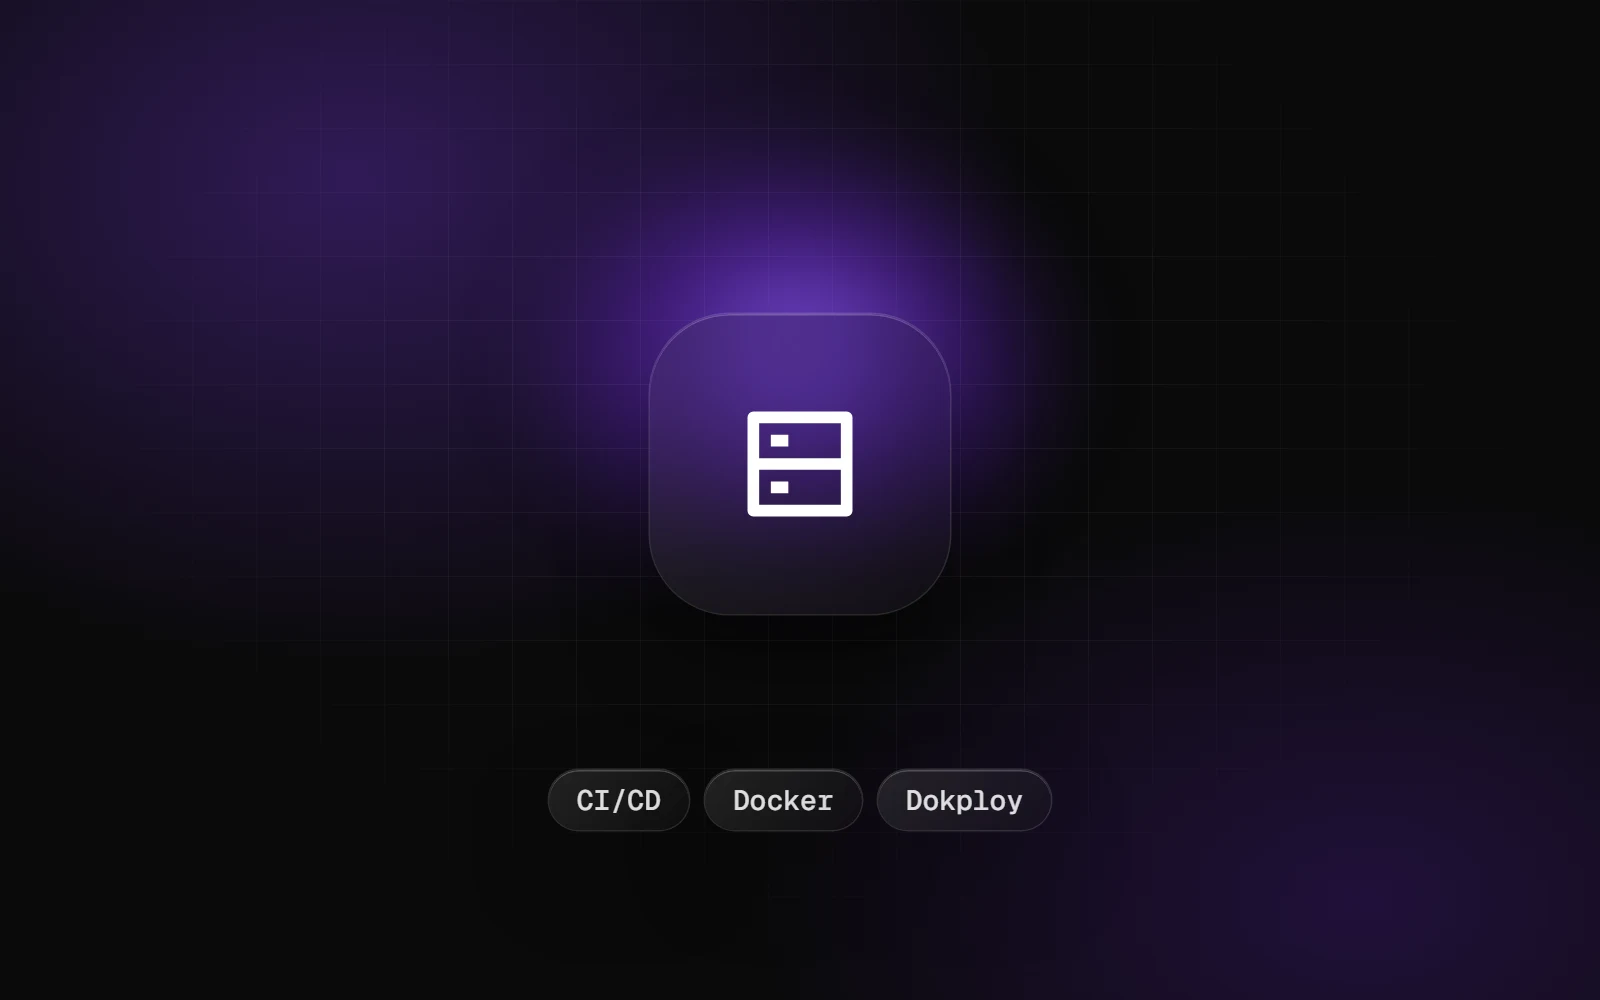
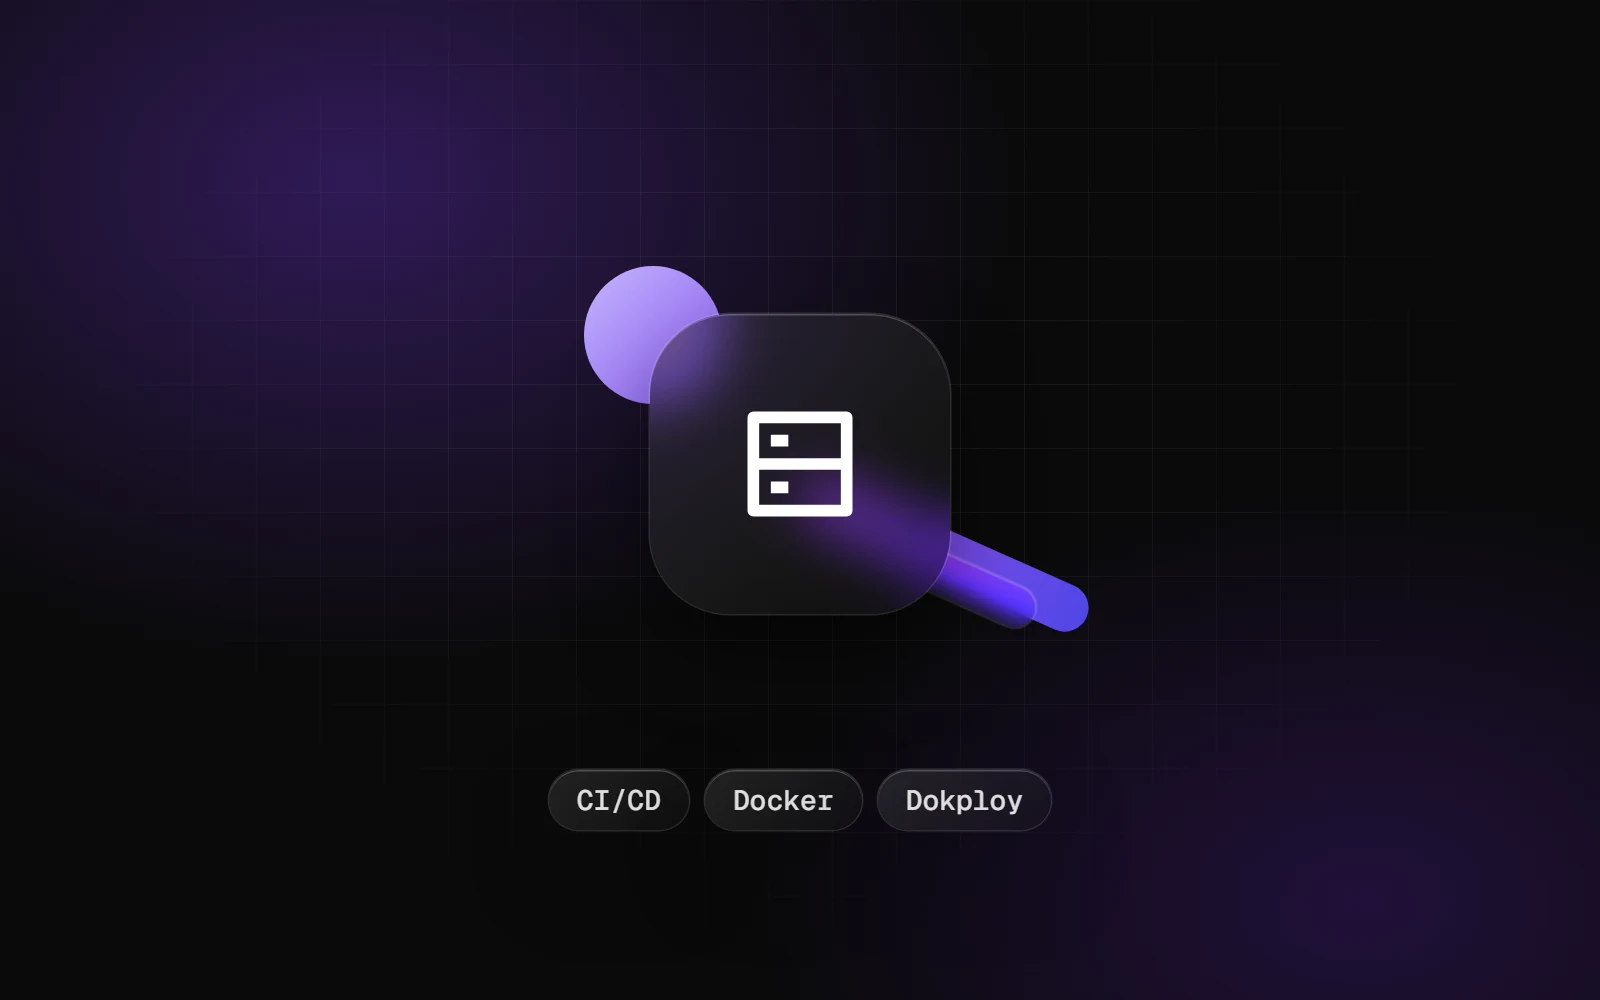
feat: cover shapes anchored to the glass element, one composition per neighbour

Changed region(s): [[0.3438, 0.155, 0.6875, 0.651]]

diff --git a/scripts/cover-template.ts b/scripts/cover-template.ts
@@ -1,8 +1,8 @@
 /**
- * Shared template of the project covers: the site's dark violet light and one
- * glass element over a soft violet glow, the same on every cover. The element
- * is a window around a desktop capture, a phone around a mobile capture, or an
- * icon tile with keywords for the projects without an interface.
+ * Shared template of the project covers, built like the site's hero: one glass
+ * element (a window around a desktop capture, a phone around a mobile capture,
+ * or an icon tile for the projects without an interface), two violet shapes
+ * tucked behind its corners and a small glass lens over one of them.
  */
 import { createRequire } from 'node:module'
 import { pathToFileURL } from 'node:url'
@@ -20,6 +20,25 @@ export type CoverFrame =
   | { kind: 'window'; capture: URL; pixelated?: boolean }
   | { kind: 'phone'; capture: URL }
 
+/**
+ * Four compositions, mirrored two by two. Offsets are relative to the glass
+ * element and scaled by its size (`--k`), so every shape stays anchored to it.
+ */
+const COMPOSITIONS = [
+  `<i class="shape disc" style="top: calc(-90px * var(--k)); right: calc(-150px * var(--k)); width: calc(380px * var(--k)); height: calc(380px * var(--k));"></i>
+   <i class="shape bar" style="bottom: calc(-36px * var(--k)); left: calc(-190px * var(--k)); width: calc(430px * var(--k)); height: calc(72px * var(--k)); rotate: -18deg;"></i>
+   <i class="lens glass" style="top: calc(105px * var(--k)); right: calc(-160px * var(--k)); width: calc(130px * var(--k)); height: calc(130px * var(--k));"></i>`,
+  `<i class="shape disc" style="bottom: calc(-90px * var(--k)); left: calc(-150px * var(--k)); width: calc(380px * var(--k)); height: calc(380px * var(--k));"></i>
+   <i class="shape bar" style="top: calc(-36px * var(--k)); right: calc(-190px * var(--k)); width: calc(430px * var(--k)); height: calc(72px * var(--k)); rotate: -18deg;"></i>
+   <i class="lens glass" style="bottom: calc(105px * var(--k)); left: calc(-160px * var(--k)); width: calc(130px * var(--k)); height: calc(130px * var(--k));"></i>`,
+  `<i class="shape dot" style="top: calc(-80px * var(--k)); left: calc(-110px * var(--k)); width: calc(230px * var(--k)); height: calc(230px * var(--k));"></i>
+   <i class="shape bar" style="bottom: calc(60px * var(--k)); right: calc(-250px * var(--k)); width: calc(520px * var(--k)); height: calc(80px * var(--k)); rotate: 24deg;"></i>
+   <i class="lens glass" style="bottom: calc(10px * var(--k)); right: calc(-150px * var(--k)); width: calc(230px * var(--k)); height: calc(70px * var(--k)); rotate: 24deg;"></i>`,
+  `<i class="shape dot" style="bottom: calc(-80px * var(--k)); right: calc(-110px * var(--k)); width: calc(230px * var(--k)); height: calc(230px * var(--k));"></i>
+   <i class="shape bar" style="top: calc(60px * var(--k)); left: calc(-250px * var(--k)); width: calc(520px * var(--k)); height: calc(80px * var(--k)); rotate: 24deg;"></i>
+   <i class="lens glass" style="top: calc(10px * var(--k)); left: calc(-150px * var(--k)); width: calc(230px * var(--k)); height: calc(70px * var(--k)); rotate: 24deg;"></i>`,
+]
+
 function fontUrl(path: string) {
   return pathToFileURL(require.resolve(path)).href
 }
@@ -30,16 +49,23 @@ function iconSvg(name: string) {
   return `<svg xmlns="http://www.w3.org/2000/svg" viewBox="0 0 24 24" fill="currentColor">${icon.body}</svg>`
 }
 
-function frameHtml(frame: CoverFrame) {
-  if (frame.kind === 'icon') {
-    return `<div class="tile glass">${iconSvg(frame.icon)}</div>
+function frameHtml(frame: CoverFrame, composition: string) {
+  const content =
+    frame.kind === 'icon'
+      ? iconSvg(frame.icon)
+      : `<img src="${frame.capture.href}" alt=""${frame.kind === 'window' && frame.pixelated ? ' class="pixelated"' : ''}>`
+  const stage = `<div class="stage stage--${frame.kind}">
+    ${composition}
+    <div class="frame frame--${frame.kind} glass">${content}</div>
+  </div>`
+  if (frame.kind !== 'icon') return stage
+  return `${stage}
   <div class="keywords">${frame.keywords.map((word) => `<span class="glass">${word}</span>`).join('')}</div>`
-  }
-  const image = `<img src="${frame.capture.href}" alt=""${frame.kind === 'window' && frame.pixelated ? ' class="pixelated"' : ''}>`
-  return `<div class="${frame.kind} glass">${image}</div>`
 }
 
-export function coverHtml(frame: CoverFrame) {
+/** `variant` picks the composition; neighbouring projects get different ones. */
+export function coverHtml(frame: CoverFrame, variant: number) {
+  const composition = COMPOSITIONS[variant % COMPOSITIONS.length] ?? ''
   const sans = fontUrl('@fontsource-variable/geist/files/geist-latin-wght-normal.woff2')
   const mono = fontUrl('@fontsource-variable/geist-mono/files/geist-mono-latin-wght-normal.woff2')
   return `<!doctype html>
@@ -73,21 +99,7 @@ export function coverHtml(frame: CoverFrame) {
     background-size: 64px 64px;
     mask-image: radial-gradient(ellipse at 50% 40%, black 15%, transparent 72%);
   }
-  .glow {
-    position: absolute;
-    top: 130px;
-    left: 50%;
-    width: 560px;
-    height: 460px;
-    border-radius: 50%;
-    background: radial-gradient(closest-side, #8b5cf6, rgb(109 40 217 / 0.5), transparent);
-    filter: blur(40px);
-    translate: -50% 0;
-  }
-  .glow--window,
-  .glow--phone { top: 170px; width: 1100px; height: 640px; opacity: 0.8; }
   .glass {
-    position: absolute;
     background:
       linear-gradient(135deg, rgb(255 255 255 / 0.1), rgb(255 255 255 / 0.02)),
       rgb(10 10 10 / 0.5);
@@ -97,18 +109,31 @@ export function coverHtml(frame: CoverFrame) {
       inset 0 1.5px 0 rgb(255 255 255 / 0.22),
       0 40px 100px -20px rgb(0 0 0 / 0.7);
   }
-  .tile {
-    top: 50%;
-    left: 50%;
+  .stage { position: absolute; left: 50%; }
+  .stage--window { --k: 1; top: 50%; width: 1120px; transform: translate(-50%, -50%); }
+  .stage--phone { --k: 0.8; top: 90px; width: 430px; transform: translateX(-50%); }
+  .stage--icon { --k: 0.6; top: 50%; width: 300px; height: 300px; transform: translate(-50%, -62%); }
+  .shape, .lens { position: absolute; border-radius: 9999px; }
+  .disc { background: linear-gradient(135deg, #a78bfa, #6d28d9); }
+  .dot { background: linear-gradient(135deg, #c4b5fd, #8b5cf6); }
+  .bar { background: linear-gradient(90deg, #a855f7, #4f46e5); }
+  .lens { background: rgb(255 255 255 / 0.04); backdrop-filter: blur(14px) saturate(200%); }
+  .frame { position: relative; padding: 14px; }
+  .frame img { display: block; width: 100%; }
+  .frame--window { border-radius: 34px; }
+  .frame--window img { border-radius: 22px; }
+  .frame--phone { border-radius: 64px; }
+  .frame--phone img { border-radius: 50px; }
+  .frame--icon {
     display: grid;
-    width: 300px;
-    height: 300px;
+    width: 100%;
+    height: 100%;
     place-items: center;
+    padding: 0;
     border-radius: 80px;
     color: #fff;
-    transform: translate(-50%, -62%);
   }
-  .tile svg { width: 140px; height: 140px; }
+  .frame--icon svg { width: 140px; height: 140px; }
   .keywords {
     position: absolute;
     right: 0;
@@ -119,37 +144,17 @@ export function coverHtml(frame: CoverFrame) {
     gap: 16px;
   }
   .keywords span {
-    position: relative;
     padding: 12px 28px;
     border-radius: 999px;
     color: rgb(255 255 255 / 0.86);
     font: 500 28px "Geist Mono", monospace;
   }
-  .window {
-    top: 50%;
-    left: 50%;
-    width: 1120px;
-    padding: 14px;
-    border-radius: 34px;
-    transform: translate(-50%, -50%);
-  }
-  .window img { display: block; width: 100%; border-radius: 22px; }
-  .phone {
-    top: 90px;
-    left: 50%;
-    width: 430px;
-    padding: 14px;
-    border-radius: 64px;
-    transform: translateX(-50%);
-  }
-  .phone img { display: block; width: 100%; border-radius: 50px; }
   .pixelated { image-rendering: pixelated; }
 </style>
 <body>
   <div class="light"></div>
   <div class="grid"></div>
-  <div class="glow glow--${frame.kind}"></div>
-  ${frameHtml(frame)}
+  ${frameHtml(frame, composition)}
 </body>
 </html>`
 }

diff --git a/scripts/covers.ts b/scripts/covers.ts
@@ -16,21 +16,22 @@ import { type CoverFrame, coverHtml, HEIGHT, WIDTH } from './cover-template'
 const OUTPUT_DIR = new URL('../public/images/projects/', import.meta.url)
 const CAPTURES = new URL('./captures/', import.meta.url)
 
+// In the order of the projects page, so that neighbours never share a composition.
 const covers: Array<{ id: string; frame: CoverFrame }> = [
+  {
+    id: 'dgfip-audit-tool',
+    frame: { kind: 'icon', icon: 'database-2-line', keywords: ['Python', 'SQLite', 'DuckDB'] },
+  },
   { id: 'move', frame: { kind: 'phone', capture: new URL('move.png', CAPTURES) } },
+  {
+    id: 'infrastructure',
+    frame: { kind: 'icon', icon: 'server-line', keywords: ['CI/CD', 'Docker', 'Dokploy'] },
+  },
   { id: 'portfolio', frame: { kind: 'window', capture: new URL('portfolio.png', CAPTURES) } },
   { id: 'parcourtime', frame: { kind: 'window', capture: new URL('parcourtime.png', CAPTURES) } },
   {
     id: 'zeldanes',
     frame: { kind: 'window', capture: new URL('zeldanes.png', CAPTURES), pixelated: true },
-  },
-  {
-    id: 'dgfip-audit-tool',
-    frame: { kind: 'icon', icon: 'database-2-line', keywords: ['Python', 'SQLite', 'DuckDB'] },
-  },
-  {
-    id: 'infrastructure',
-    frame: { kind: 'icon', icon: 'server-line', keywords: ['CI/CD', 'Docker', 'Dokploy'] },
   },
   { id: 'satt-tool', frame: { kind: 'icon', icon: 'table-line', keywords: ['Excel', 'VBA'] } },
   {
@@ -56,10 +57,10 @@ const browser = await chromium.launch({
 })
 try {
   const page = await browser.newPage({ viewport: { width: WIDTH, height: HEIGHT } })
-  for (const cover of covers) {
+  for (const [index, cover] of covers.entries()) {
     if (requested.size > 0 && !requested.has(cover.id)) continue
     const html = join(workDir, `${cover.id}.html`)
-    await writeFile(html, coverHtml(cover.frame))
+    await writeFile(html, coverHtml(cover.frame, index))
     await page.goto(pathToFileURL(html).href, { waitUntil: 'load' })
     await page.evaluate(() => document.fonts.ready)
     const png = await page.screenshot({ type: 'png' })

diff --git a/CHANGELOG.md b/CHANGELOG.md
@@ -10,7 +10,7 @@ All notable changes to this project are documented here. The format follows [Kee
 - Cards share one hover: a short lift and a violet edge, without lightening the card.
 - Project filters sit in a glass selector; contact fields have a thin outline and a single violet focus ring.
 - Projects page: one project per row, image and text alternating sides.
-- New project covers in the site's style: a glass window around the product capture (Move in a phone frame), or an icon tile for the projects without a public interface, over the same violet glow.
+- New project covers built like the hero: a glass window around the product capture (Move in a phone frame) or an icon tile for the projects without a public interface, with two violet shapes tucked behind its corners and a glass lens; neighbouring projects never share a composition.
 - Resume, legal notice and privacy pages follow the same design: violet light at the top, legal texts in a glass card.
 
 ### Fixed
